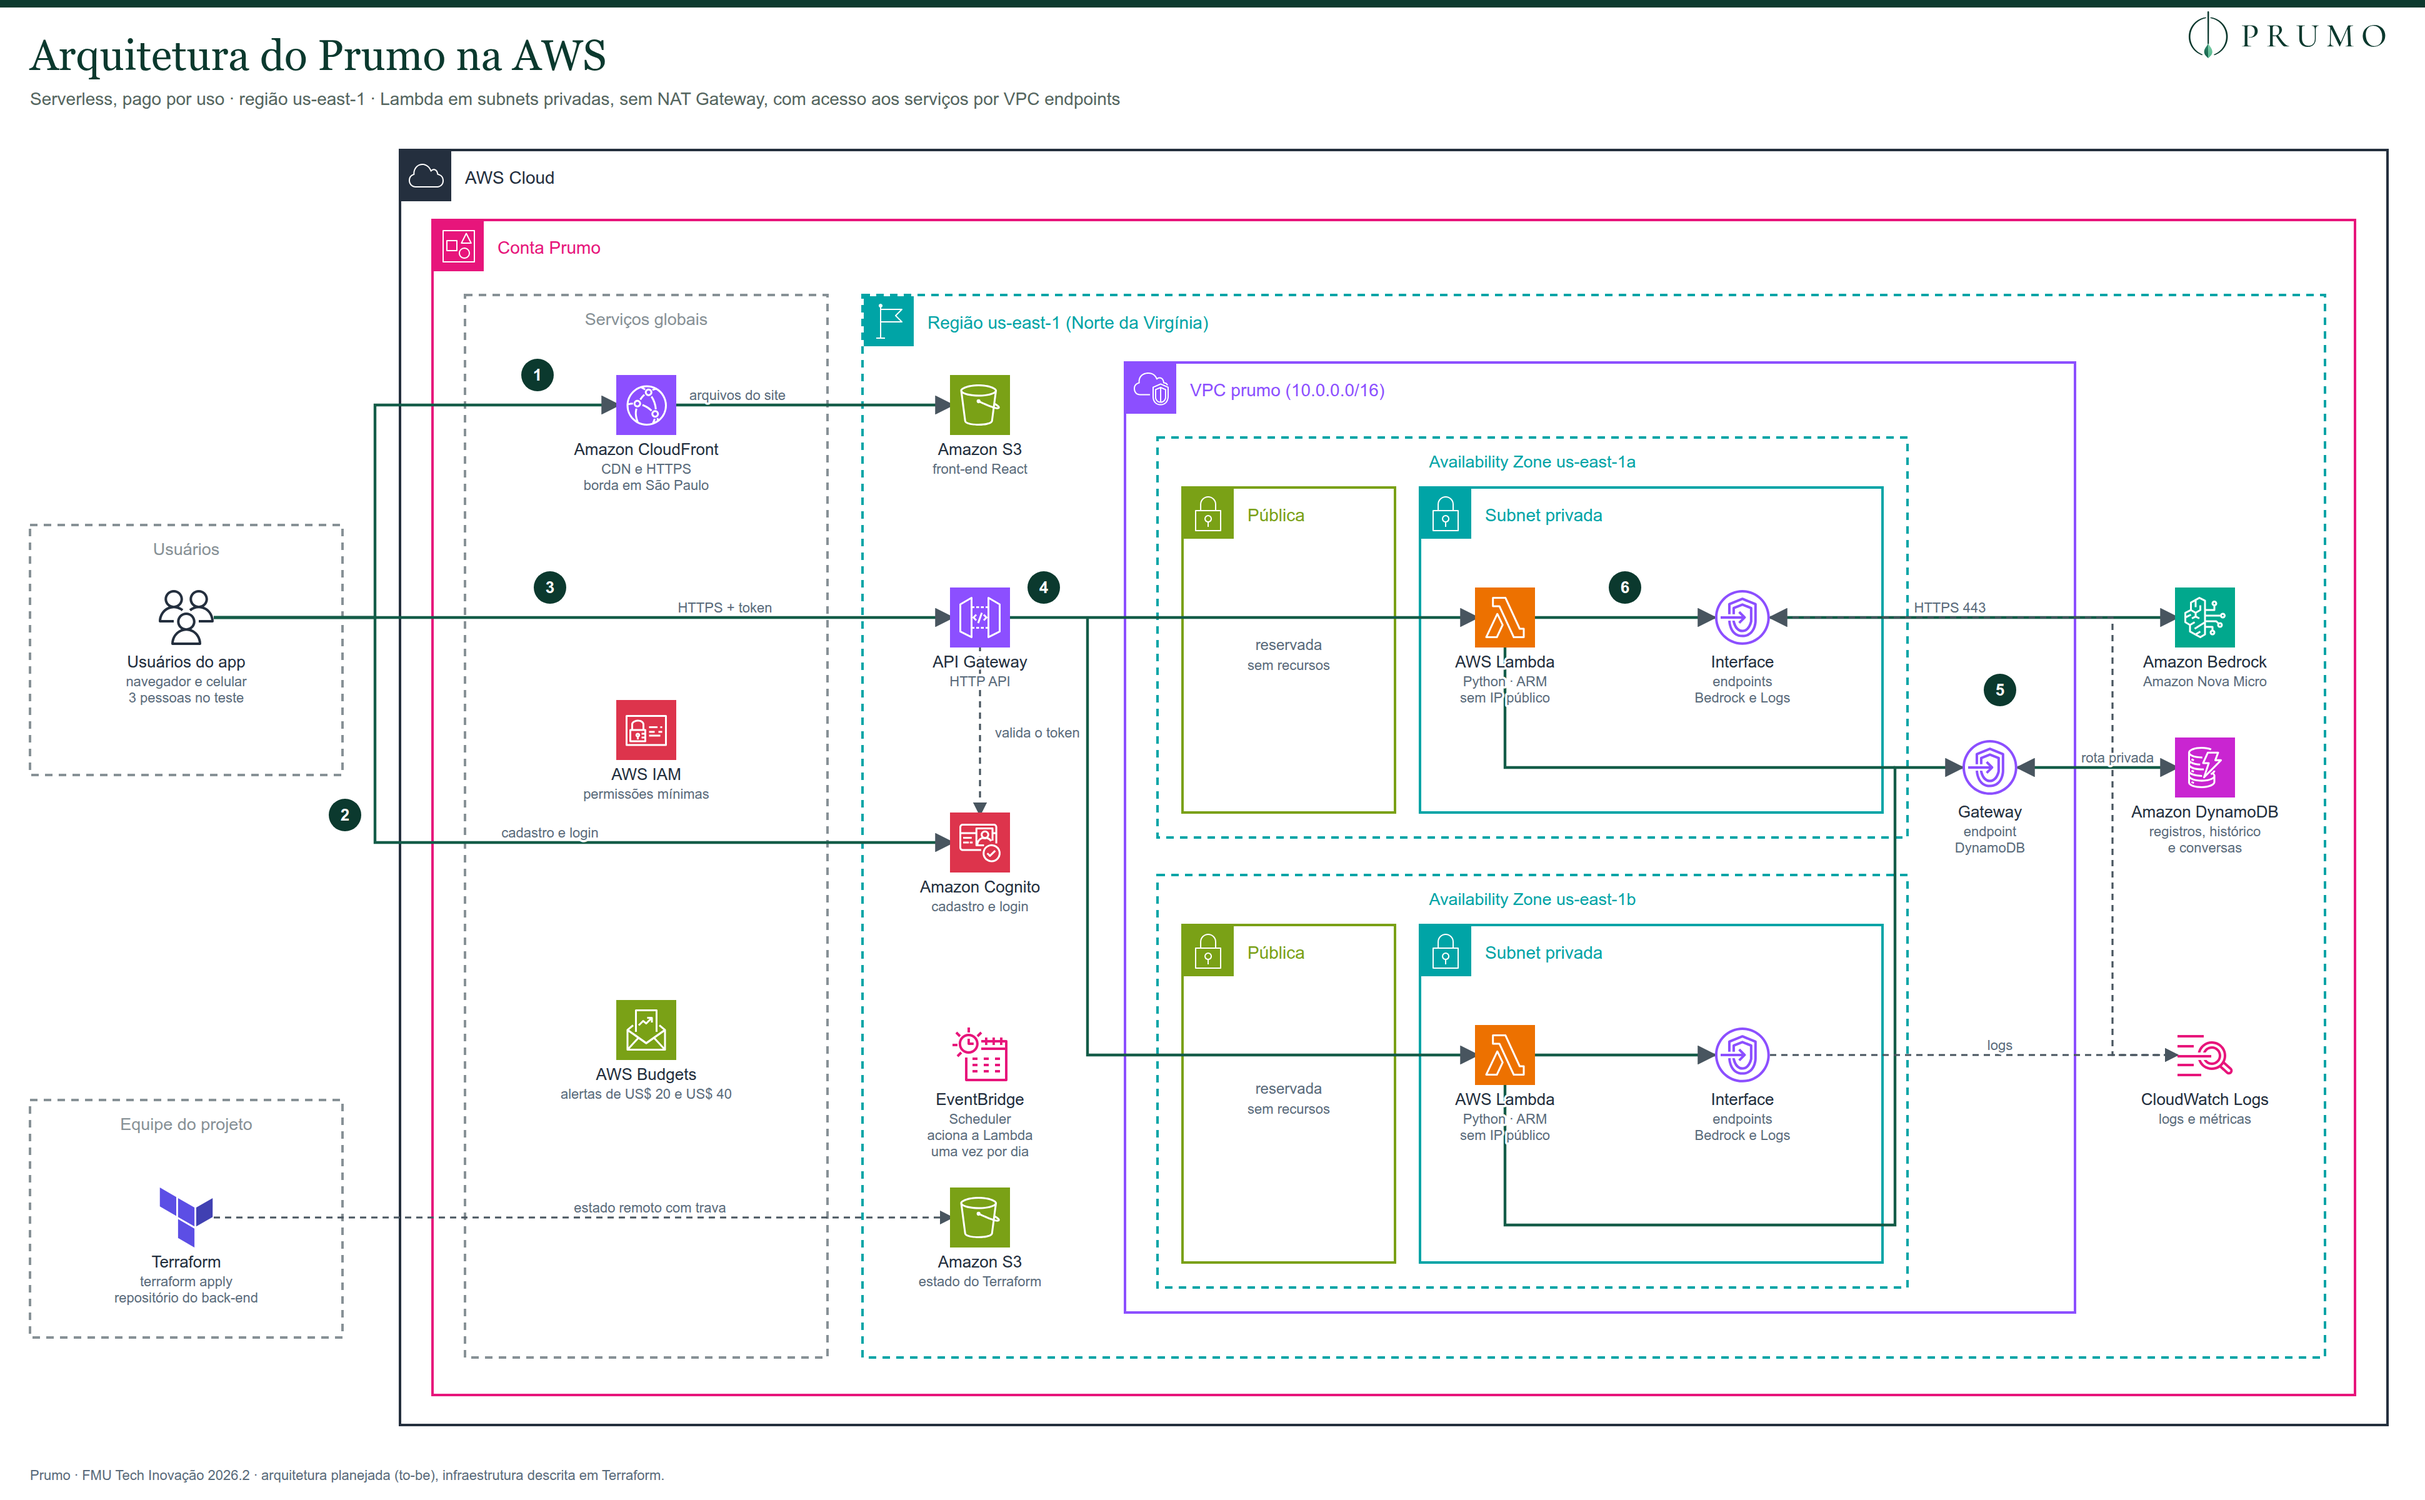
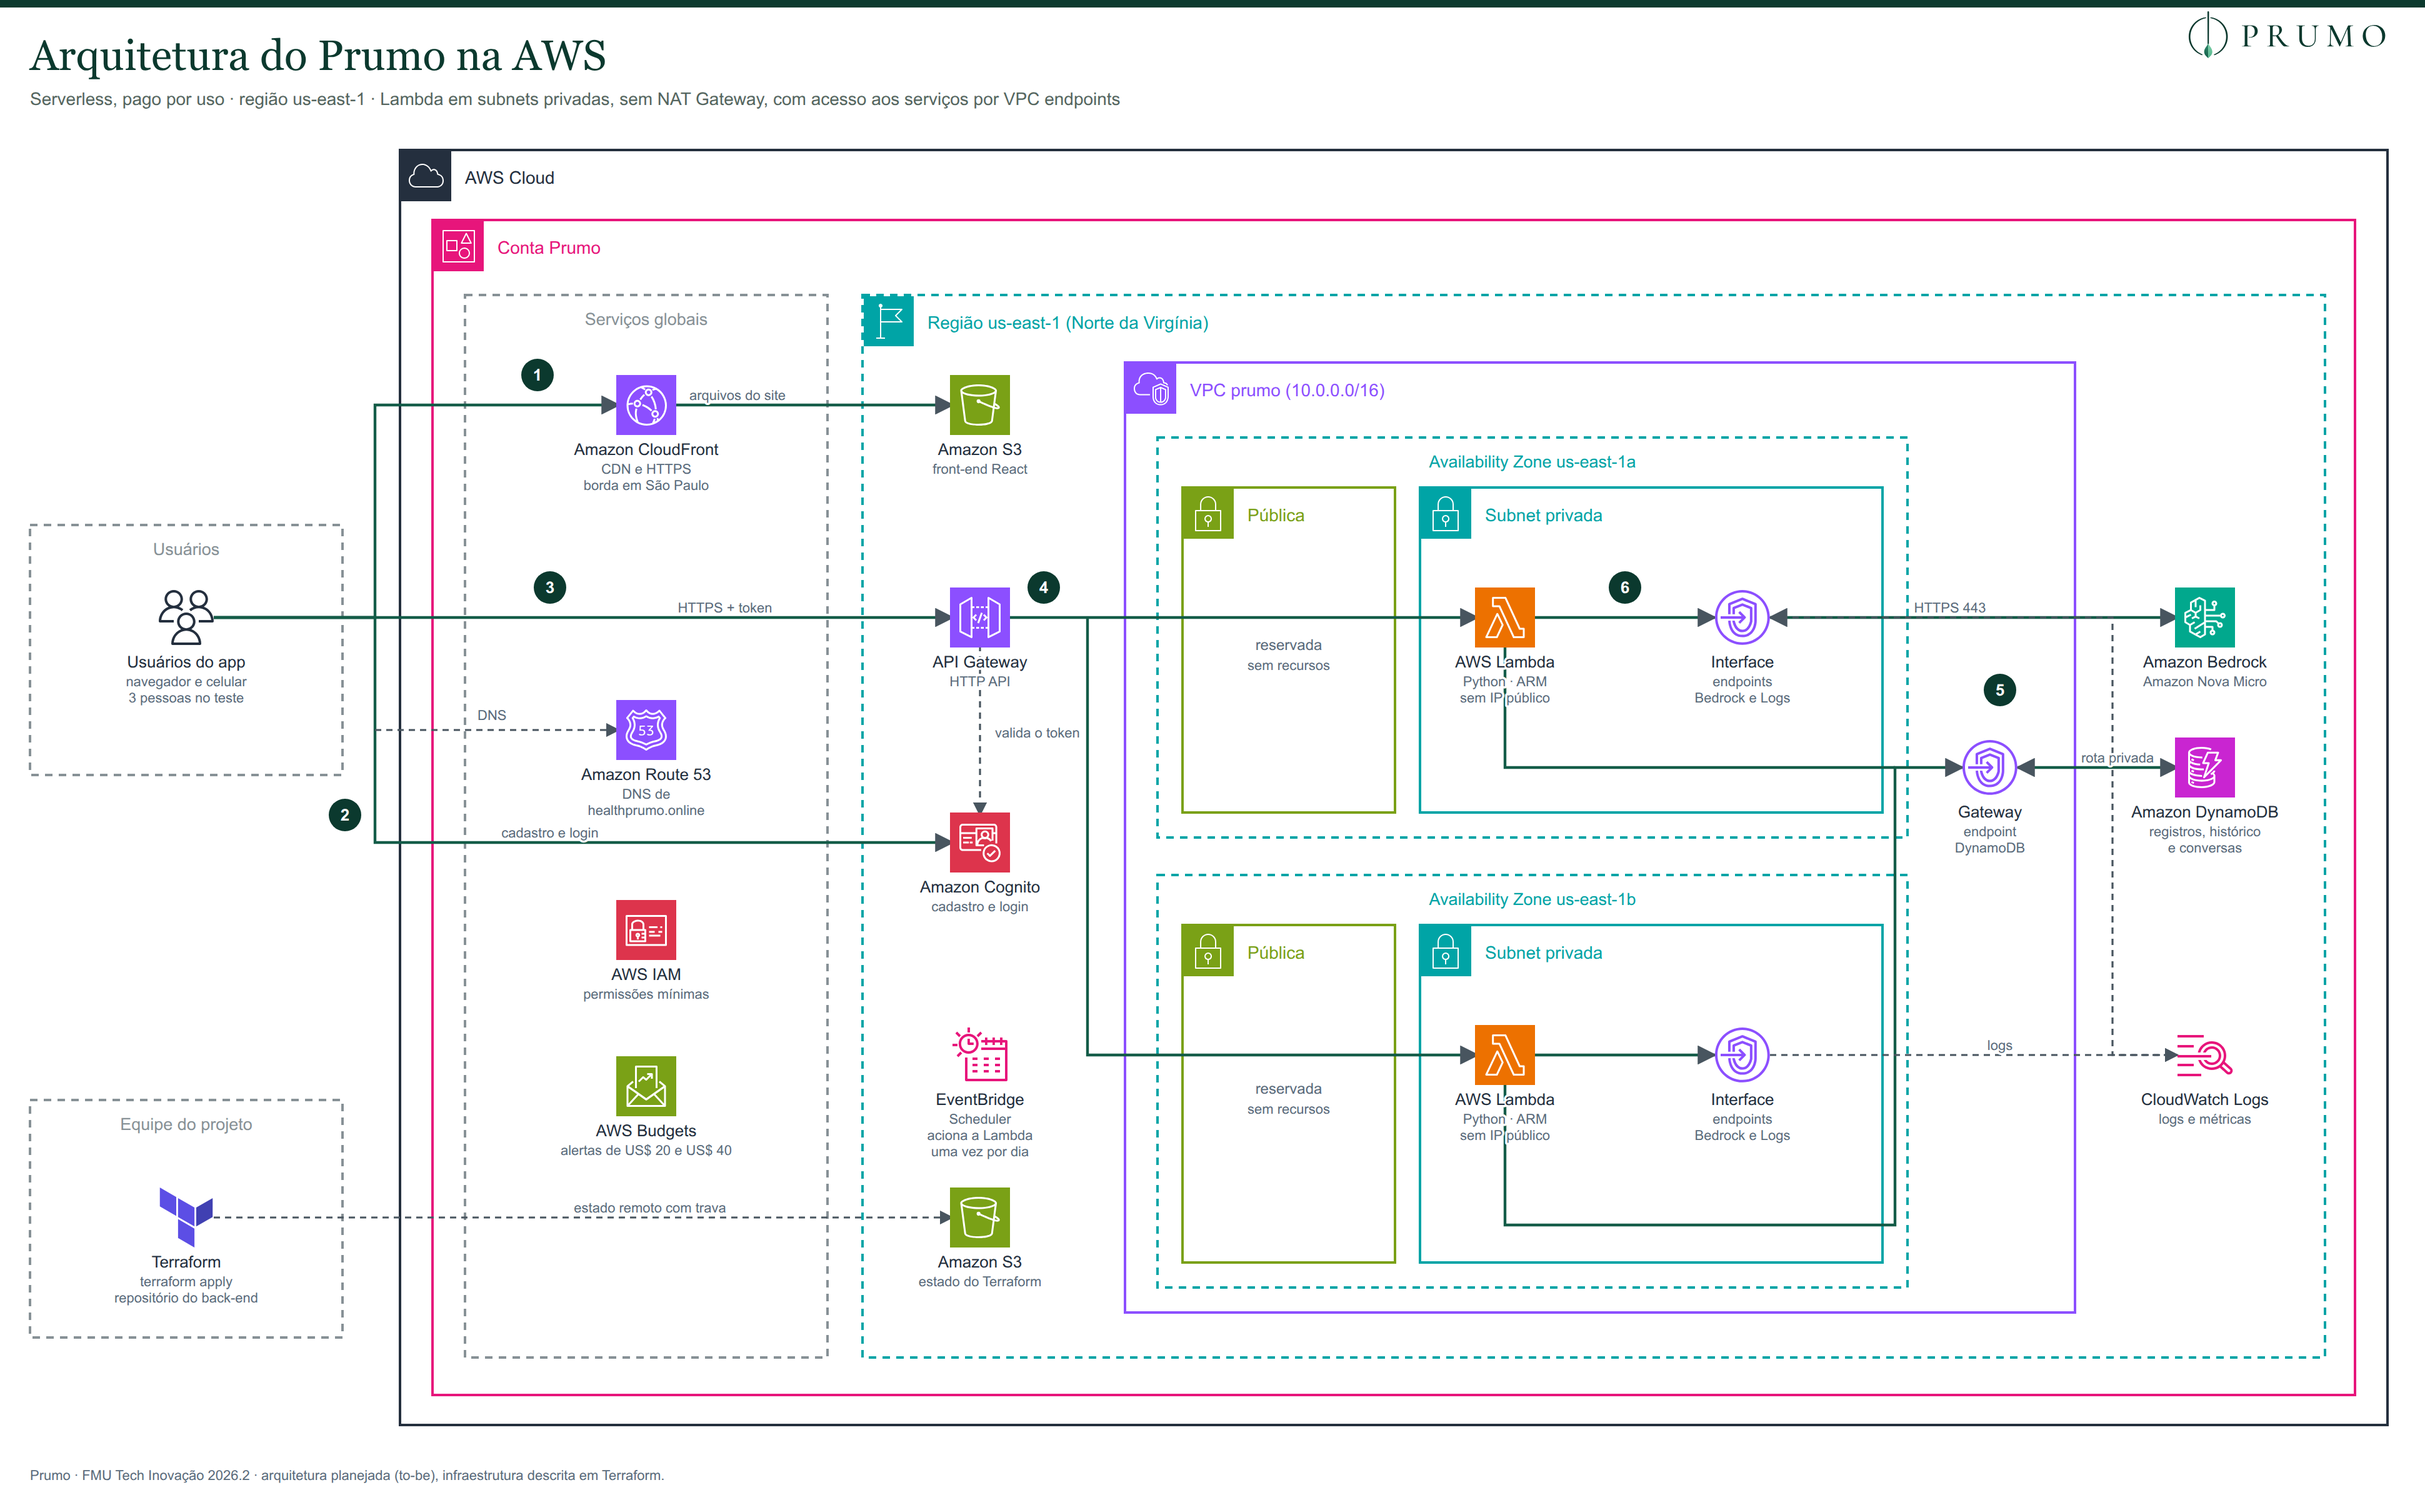
Registra o Route 53 do healthprumo.online no desenho e nos docs
Adiciona o Route 53 à arquitetura, à tabela de serviços e aos cuidados
de custo, e documenta que serviço novo atualiza desenho e docs.

Changed region(s): [[0.2495, 0.5938, 0.2807, 0.7812], [0.2495, 0.4688, 0.2807, 0.5625], [0.0624, 0.4375, 0.0936, 0.4688]]

diff --git a/docs/06-infraestrutura-aws.md b/docs/06-infraestrutura-aws.md
@@ -24,7 +24,7 @@ Levantamento dos serviços da AWS para a primeira versão do Prumo, com custo es
 <sub>Ícones oficiais do pacote AWS Architecture Icons. Versão vetorial: [`assets/arquitetura/arquitetura-aws.svg`](../assets/arquitetura/arquitetura-aws.svg).</sub>
 
 O fluxo principal (registrar o dia e receber a análise), numerado no diagrama, passa por:
-1. **CloudFront e S3:** entregam o site.
+1. **CloudFront e S3:** entregam o site. Antes, o navegador consulta o **Route 53**, que resolve o domínio `healthprumo.online`.
 2. **Cognito:** faz o login e emite um token.
 3. **API Gateway:** recebe a chamada do app e confere o token no Cognito.
 4. **Lambda:** roda dentro das subnets privadas da VPC, nas duas zonas de disponibilidade.
@@ -60,6 +60,7 @@ O API Gateway, o Cognito, o S3 e o CloudFront são serviços gerenciados que fic
 | **Amazon Bedrock** | Gera o card "Seu dia" e as respostas do Coach | IA gerenciada, sem chave de API para guardar (acesso por permissão da Lambda) | **Não tem.** É o principal custo. |
 | **EventBridge Scheduler** | Lembrete diário para registrar o dia | Agendamento sem servidor | 14 milhões de invocações |
 | **CloudWatch Logs** | Logs da Lambda e da API para depuração | Já integrado à Lambda | 5 GB |
+| **Amazon Route 53** | DNS do domínio `healthprumo.online` (registrado na GoDaddy, com o DNS delegado à AWS) | Todos os registros no mesmo lugar e em Terraform; integra com CloudFront e ACM | Não tem: US$ 0,50 por zona por mês, mais US$ 0,40 por milhão de consultas |
 | **AWS Budgets** | Alertas por e-mail se o gasto passar de um limite | Proteção contra surpresas na fatura | Gratuito |
 | **IAM** | Permissões mínimas para cada função | Obrigatório e gratuito | Gratuito |
 | **Amazon VPC** | Rede privada da Lambda, com subnets em duas zonas | Isola o backend da internet | A VPC e o gateway endpoint são gratuitos; os interface endpoints, não |
@@ -70,10 +71,10 @@ Toda a infraestrutura é descrita em código com **Terraform** (provider `hashic
 
 | Repositório | Conteúdo |
 |---|---|
-| [Health-Prumo/tf-blueprint](https://github.com/Health-Prumo/tf-blueprint) | Módulos Terraform reutilizáveis, versionados por tag (hoje `v0.2.0`). Cada módulo tem `versions.tf`, `variables.tf` com validações, `main.tf`, `outputs.tf` e `README.md`, e o GitHub Actions confere formatação e validação a cada push. |
+| [Health-Prumo/tf-blueprint](https://github.com/Health-Prumo/tf-blueprint) | Módulos Terraform reutilizáveis, versionados por tag (hoje `v0.3.0`). Cada módulo tem `versions.tf`, `variables.tf` com validações, `main.tf`, `outputs.tf` e `README.md`, e o GitHub Actions confere formatação e validação a cada push. |
 | [Health-Prumo/tf-environments](https://github.com/Health-Prumo/tf-environments) | Os ambientes em Terragrunt. Cada ambiente tem um `root.hcl` com o estado remoto e o provider, e cada pasta dentro dele aponta para um módulo do `tf-blueprint` por tag, nunca pela `main`. |
 
-**O que já está na conta (11/11/2026):** só as proteções de custo: o orçamento com alertas (`global/budgets`) e a detecção de anomalias (`global/cost-anomaly`). Os módulos de rede, banco, login, front-end e API entram no `tf-blueprint` quando a infra for provisionada, num ambiente `dev/`.
+**O que já está na conta (17/11/2026):** as proteções de custo, com o orçamento com alertas (`global/budgets`) e a detecção de anomalias (`global/cost-anomaly`), e a zona DNS do `healthprumo.online` (`global/dns`). Os módulos de rede, banco, login, front-end e API entram no `tf-blueprint` quando a infra for provisionada, num ambiente `dev/`.
 
 - **Estado remoto no bucket `prumo-terraform-state-444331926746`, com trava nativa (`use_lockfile = true`).** O estado fica no S3 para que os três integrantes trabalhem sobre o mesmo ambiente. A trava nativa do S3 dispensa a tabela do DynamoDB que se usava antes, e o custo é de centavos.
 - **Bucket do estado criado pelo próprio Terragrunt** na primeira execução (`terragrunt init --backend-bootstrap`), com versionamento, criptografia e acesso público bloqueado. Ele não é gerenciado pelo mesmo código que ele guarda.
@@ -110,6 +111,8 @@ Cenário: **3 pessoas testando o app por 1 mês**, com uso intenso, e depois a i
 | Amazon Bedrock | US East (N. Virginia) | 0,00 USD | 0,14 USD | 1,73 USD | Amazon Nova Micro sob demanda; 2,66 milhões de tokens de entrada e 0,36 milhão de saída/mês |
 | Amazon VPC | US East (N. Virginia) | 0,00 USD | 29,20 USD | 350,40 USD | 4 interface endpoints (Bedrock Runtime e CloudWatch Logs em 2 zonas), 730 horas/mês; 0,01 GB processados; 1 gateway endpoint do DynamoDB (gratuito) |
 | **Total** | | **0,00 USD** | **29,36 USD** | **352,26 USD** | |
+
+Fora da estimativa: a zona DNS do Route 53 (US$ 0,50 por mês), que fica ligada o semestre inteiro e não é apagada depois do teste.
 
 - **Duração média da Lambda (740 ms):** média ponderada entre chamadas comuns (150 ms) e chamadas que esperam a IA (3 s).
 - **Custo em 12 meses:** é o formato padrão da AWS Pricing Calculator. Como o teste dura 1 mês e depois tudo é apagado, o custo real é o de um mês (**US$ 29,36**), pago pelos créditos.
@@ -208,7 +211,8 @@ O semestre termina em 08/12. Criando a conta agora, o plano Free cobre todo o pr
 - **NAT Gateway:** US$ 0,045 por hora (cerca de US$ 33 por mês) mais US$ 0,045 por GB. Os VPC endpoints substituem o NAT.
 - **RDS, Aurora e instâncias EC2:** o DynamoDB substitui o banco relacional.
 - **Endereços IP públicos (IPv4) parados.**
-- **AWS WAF e domínios no Route 53:** o endereço padrão do CloudFront (`*.cloudfront.net`) basta para a demonstração.
+- **AWS WAF:** não é necessário para a demonstração.
+- **Registro de domínio pela AWS:** o `healthprumo.online` foi comprado na GoDaddy e continua registrado lá. No Route 53 fica só a zona DNS (US$ 0,50 por mês). Não registre nem transfira domínio pela AWS.
 
 **Proteções a configurar:**
 - **Budgets (já ativo):** orçamento `prumo-global-mensal` de US$ 40, com e-mail quando o gasto real passa de US$ 20 e de US$ 40, e quando a previsão do mês passa de US$ 40. O orçamento ignora os créditos (`include_credit = false`); sem isso, os créditos zeram o custo e nenhum alerta dispara. O custo esperado é de US$ 29,50.
@@ -232,6 +236,7 @@ O semestre termina em 08/12. Criando a conta agora, o plano Free cobre todo o pr
 | 6 | **Selecionar a região** `us-east-1` no console (ele abre em us-east-2) | ⬜ |
 | 7 | **Liberar no Bedrock o acesso ao modelo** Amazon Nova Micro, se o console pedir | ⬜ |
 | 8 | **Ganhar os créditos extras** com as atividades guiadas do painel do Free Tier (até mais US$ 100) | ⬜ |
+| 9 | **Delegar o DNS do `healthprumo.online`:** zona no Route 53 via `tf-environments/global/dns` e troca dos nameservers na GoDaddy | ✅ zona criada · ⬜ nameservers na GoDaddy |
 
 ## Referências
 

diff --git a/AGENTS.md b/AGENTS.md
@@ -45,8 +45,8 @@ Todos são **públicos**. Nunca coloque segredo, chave, senha ou e-mail pessoal 
 |---|---|
 | [`prumo`](https://github.com/Health-Prumo/prumo) (este) | Repositório central: proposta, docs, identidade visual, mockups, arquitetura |
 | [`.github`](https://github.com/Health-Prumo/.github) | `profile/README.md` = página de apresentação da organização |
-| [`tf-blueprint`](https://github.com/Health-Prumo/tf-blueprint) | Módulos Terraform reutilizáveis, versionados por tag (hoje `v0.2.0`: `budgets` e `cost-anomaly`) |
-| [`tf-environments`](https://github.com/Health-Prumo/tf-environments) | Ambientes em Terragrunt que consomem o `tf-blueprint` (hoje `global/budgets` e `global/cost-anomaly`) |
+| [`tf-blueprint`](https://github.com/Health-Prumo/tf-blueprint) | Módulos Terraform reutilizáveis, versionados por tag (hoje `v0.3.0`: `budgets`, `cost-anomaly` e `dns-zone`) |
+| [`tf-environments`](https://github.com/Health-Prumo/tf-environments) | Ambientes em Terragrunt que consomem o `tf-blueprint` (hoje `global/budgets`, `global/cost-anomaly` e `global/dns`) |
 | [`prumo-web`](https://github.com/Health-Prumo/prumo-web) | Front-end (React + TypeScript, Vite). **Ainda sem código**: tem só o próprio `AGENTS.md` com a stack e as regras do front |
 | [`prumo-api`](https://github.com/Health-Prumo/prumo-api) | API (Python, Lambda, DynamoDB, Bedrock). **Ainda sem código**: tem só o próprio `AGENTS.md` com a stack e as regras da API |
 
@@ -95,12 +95,13 @@ assets/
 | Acesso | Usuários **IAM** individuais (grupo `admins`). CLI por `aws login --profile prumo`, **sem access keys** |
 | Orçamento | `prumo-global-mensal`: US$ 40/mês, e-mail em US$ 20 e US$ 40 de gasto real e na previsão de passar de US$ 40 |
 | Anomalias de custo | Monitor `prumo-global-servicos` e assinatura `prumo-global-anomalias`: resumo diário por e-mail quando uma anomalia passa de US$ 5 |
+| Domínio | `healthprumo.online`, registrado na GoDaddy. O DNS é delegado à zona do Route 53 (`global/dns`); todo registro DNS é criado por lá, via Terraform. SPF, DMARC e MX nulo bloqueiam e-mail falso em nome do domínio |
 
 ### Regras que não podem ser quebradas
 
 - **Nunca ative AWS Organizations, IAM Identity Center (SSO) nem Control Tower.** Qualquer um deles converte a conta para o plano pago, sem volta. Isso já aconteceu com a primeira conta do projeto, que teve de ser fechada.
 - **Confira a conta antes de qualquer comando que crie ou altere algo:** `aws sts get-caller-identity --profile prumo` tem que retornar `444331926746`. Integrantes podem ter outros perfis da AWS configurados na máquina; nunca use um perfil que não seja o do Prumo.
-- **Não crie recursos que cobram por hora** sem combinar com o grupo: NAT Gateway, RDS/Aurora, EC2, IPv4 público parado, WAF, domínio no Route 53. Os interface endpoints da VPC (cerca de US$ 29,20/mês) estão previstos no desenho e devem ser ligados só na janela de teste.
+- **Não crie recursos que cobram por hora** sem combinar com o grupo: NAT Gateway, RDS/Aurora, EC2, IPv4 público parado, WAF, registro ou transferência de domínio pela AWS. Os interface endpoints da VPC (cerca de US$ 29,20/mês) estão previstos no desenho e devem ser ligados só na janela de teste.
 - **Toda mudança de infraestrutura passa pelo Terraform/Terragrunt**, nunca pelo console.
 - **Todo recurso leva a tag `ze = porvux`** (chave `ze`, valor `porvux`). No Terraform ela vem do `default_tags` do `root.hcl`. Se algo for criado pelo console ou pela CLI (usuários IAM, por exemplo), aplique a tag na criação. Confira com `aws resourcegroupstaggingapi get-resources --tag-filters Key=ze,Values=porvux`.
 
@@ -108,6 +109,7 @@ assets/
 
 Diagrama: [`assets/arquitetura/arquitetura-aws.png`](assets/arquitetura/arquitetura-aws.png). Detalhes, preços oficiais e estimativa: [`docs/06-infraestrutura-aws.md`](docs/06-infraestrutura-aws.md).
 
+- **DNS:** Route 53 com a zona `healthprumo.online` (domínio registrado na GoDaddy, DNS delegado).
 - **Front-end:** CloudFront + S3 privado (Origin Access Control).
 - **Login:** Cognito; o API Gateway valida o JWT.
 - **API:** API Gateway HTTP API → Lambda (Python, arm64) em **subnets privadas de 2 AZs**.
@@ -170,6 +172,7 @@ Guia completo em [`docs/04-identidade-visual.md`](docs/04-identidade-visual.md).
 - **Não commite:** segredos, `.terraform/`, `.terragrunt-cache/`, `*.tfstate`, planos do Terraform, nem arquivos gerados que não sejam entregáveis.
 - **Fora do repositório, de propósito:** a calculadora interativa de custos e o script Python que gera o diagrama de arquitetura (`arquitetura_prumo.py`, que usa ferramentas que não são do projeto). Se o diagrama mudar, ele é regenerado fora daqui e só o SVG/PNG entra em `assets/arquitetura/`. O diagrama não menciona o plano Free.
 - **Ao mudar algo relevante** (conta, repositórios, decisões, cronograma), atualize este arquivo, o `README.md` e o doc correspondente em `docs/`.
+- **Serviço novo da AWS:** sobe pelo Terraform já com as tags padrão do `root.hcl` (`ze = porvux` e as demais), e no mesmo trabalho entram no desenho (`assets/arquitetura/`, regenerado fora do repositório) e no `docs/06-infraestrutura-aws.md` (fluxo, tabela de serviços e custo).
 
 ## 9. Pendências conhecidas
 
